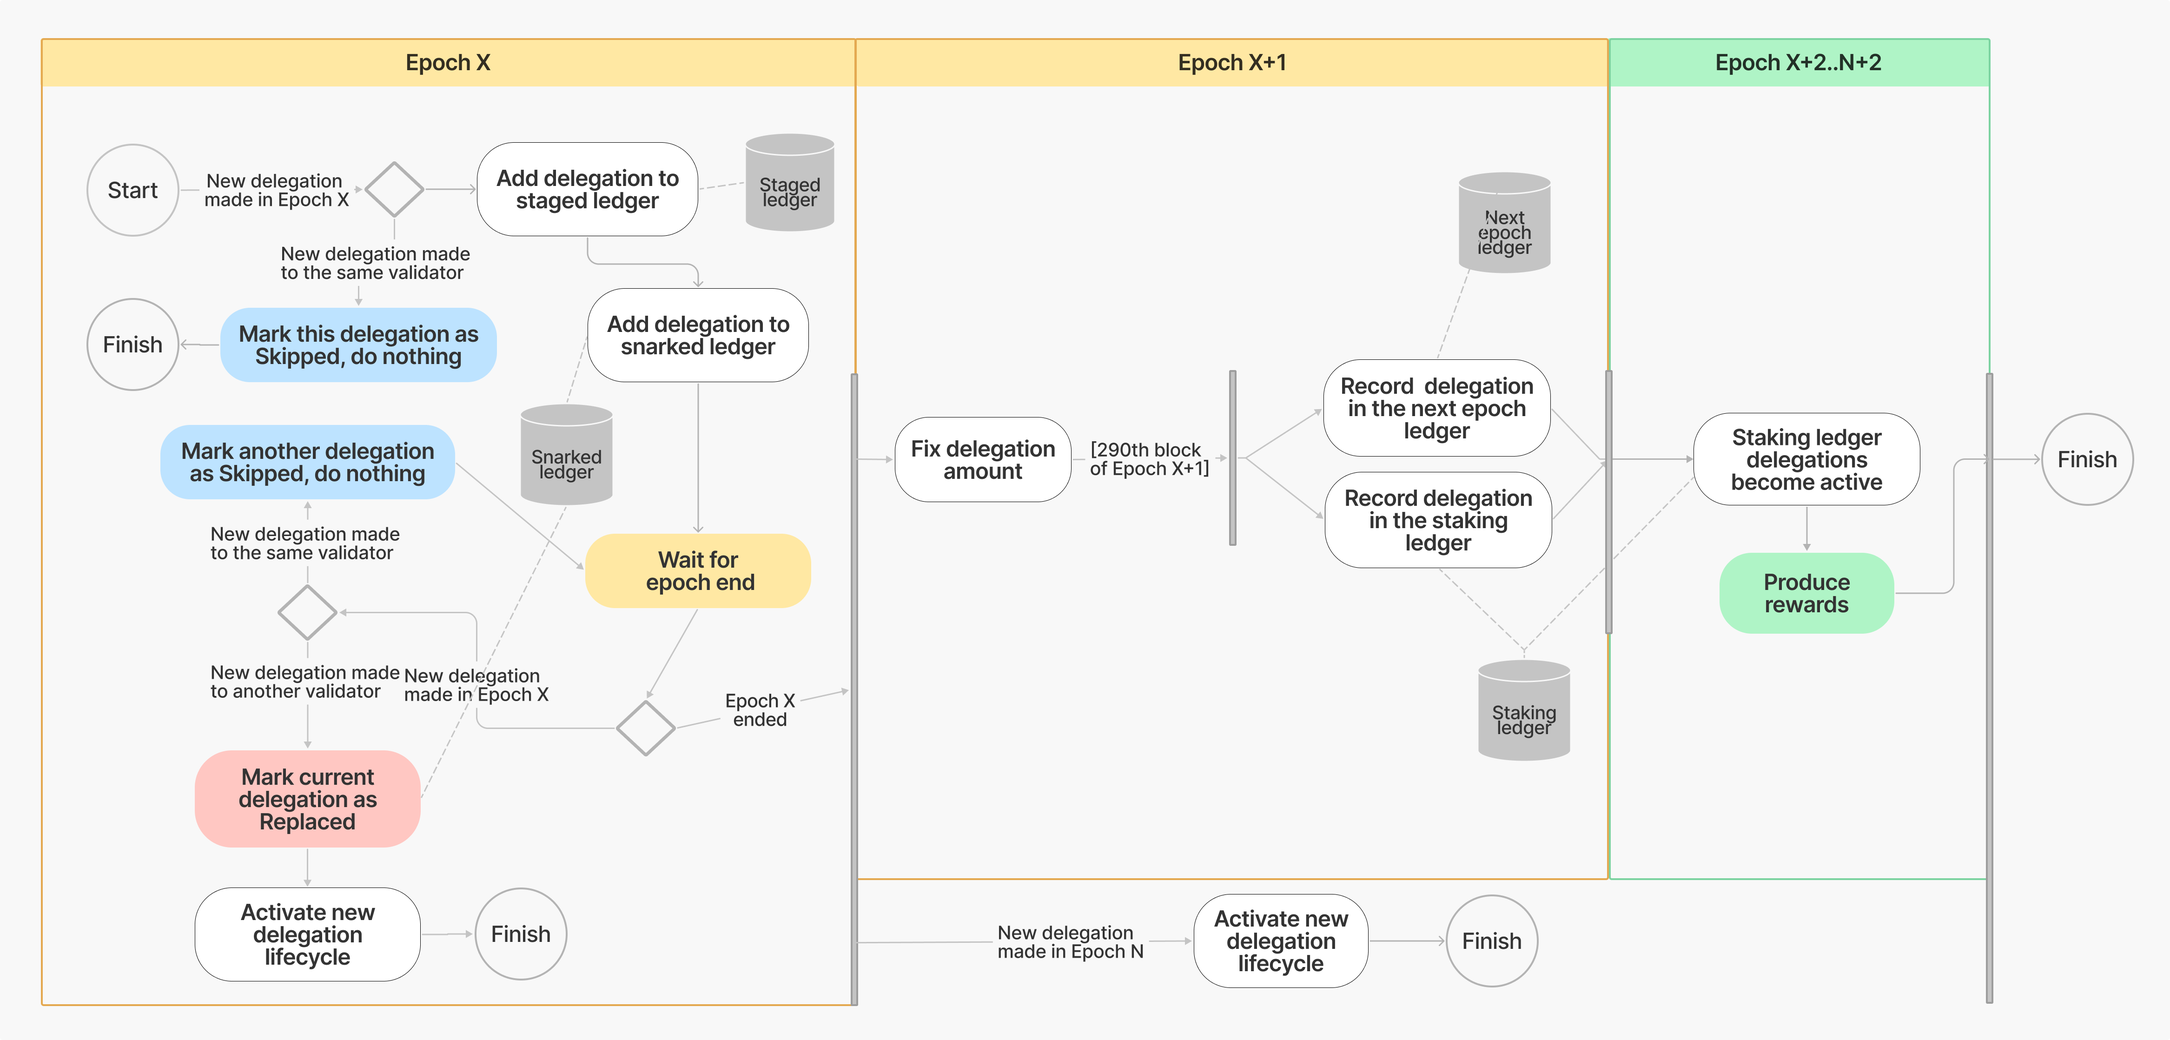
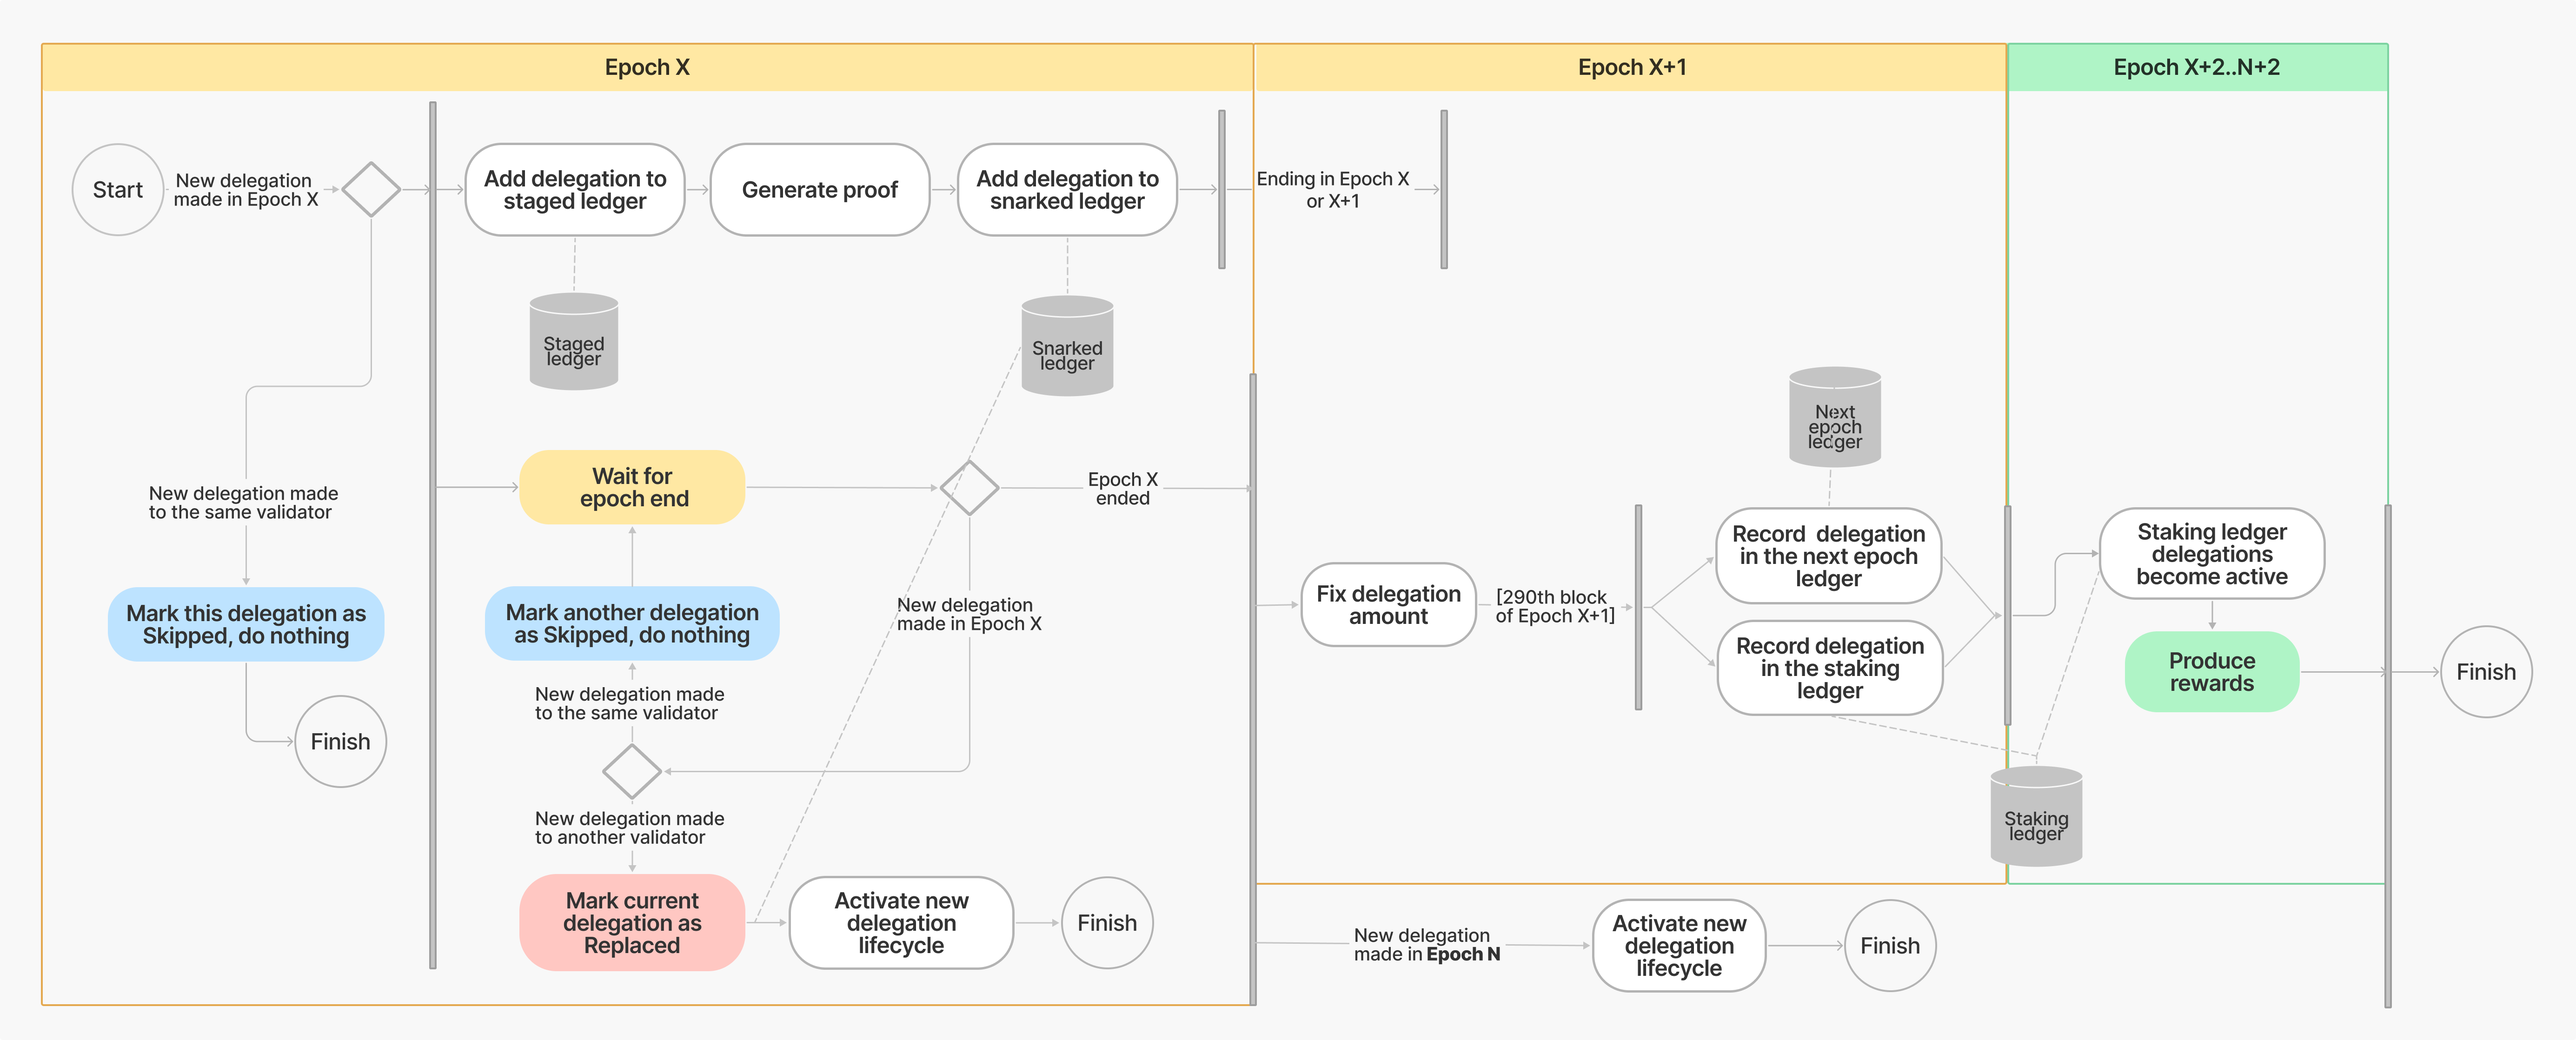
GitBook: [#137] No subject

diff --git a/academy/mina/mina-delegations-explained.md b/academy/mina/mina-delegations-explained.md
@@ -44,7 +44,7 @@ Delegation data are entered in 4 ledgers: the **snarked ledger**, the **staking 
 See [Mina glossary](mina-glossary.md).
 {% endhint %}
 
-<figure><img src="../../.gitbook/assets/AD Delegation Lifecycle (2).png" alt=""><figcaption><p><strong>Activity Diagram - Delegation transaction made in epoch X</strong></p></figcaption></figure>
+<figure><img src="../../.gitbook/assets/AD Delegation Lifecycle (1).png" alt=""><figcaption><p><strong>Activity Diagram - Delegation transaction made in epoch X</strong></p></figcaption></figure>
 
 When a delegation is made (**Epoch X**), it enters the <mark style="background-color:purple;"></mark> <mark style="background-color:purple;"></mark><mark style="background-color:purple;">**staged ledger**</mark> <mark style="background-color:purple;"></mark><mark style="background-color:purple;"></mark> . The delegation transaction enters the scan state for snark workers to generate a **snark proof** of the transaction - the amount of time this takes is dependent on the transaction throughput of the network. Once a proof containing the delegation transaction is generated a new <mark style="background-color:purple;"></mark> <mark style="background-color:purple;"></mark><mark style="background-color:purple;">**snarked ledger**</mark> <mark style="background-color:purple;"></mark><mark style="background-color:purple;"></mark> is produced.&#x20;
 
